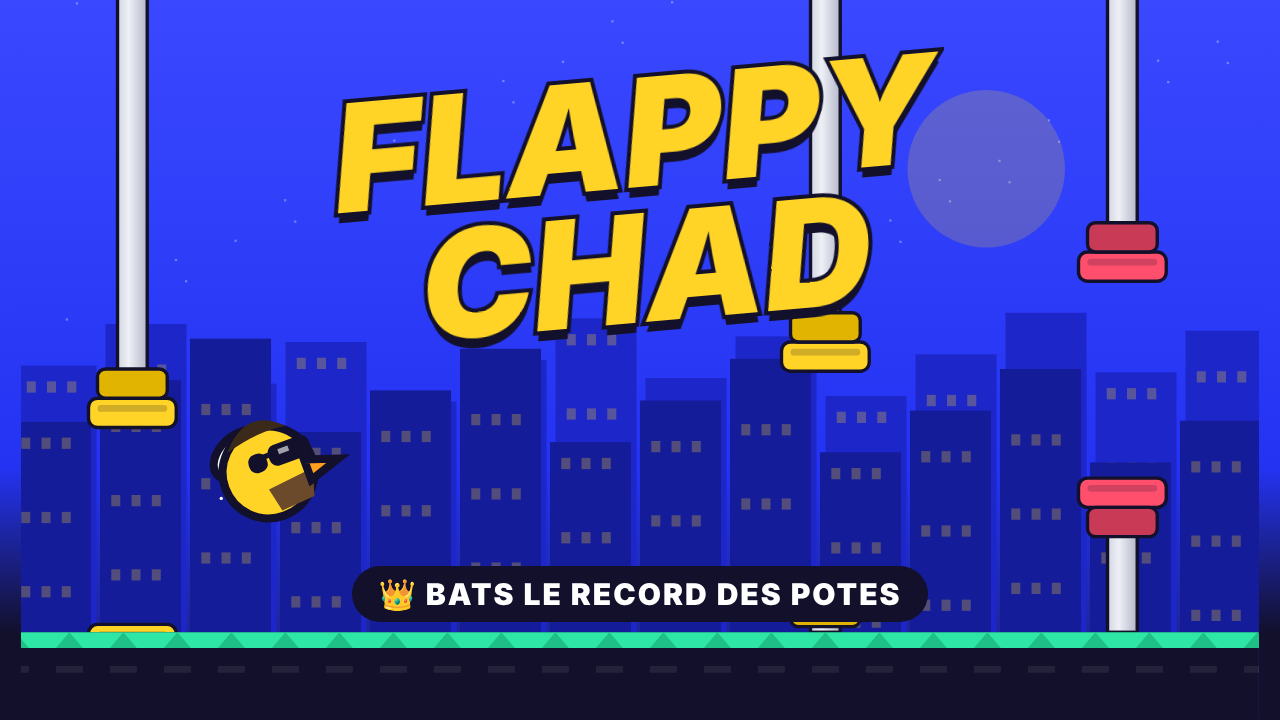
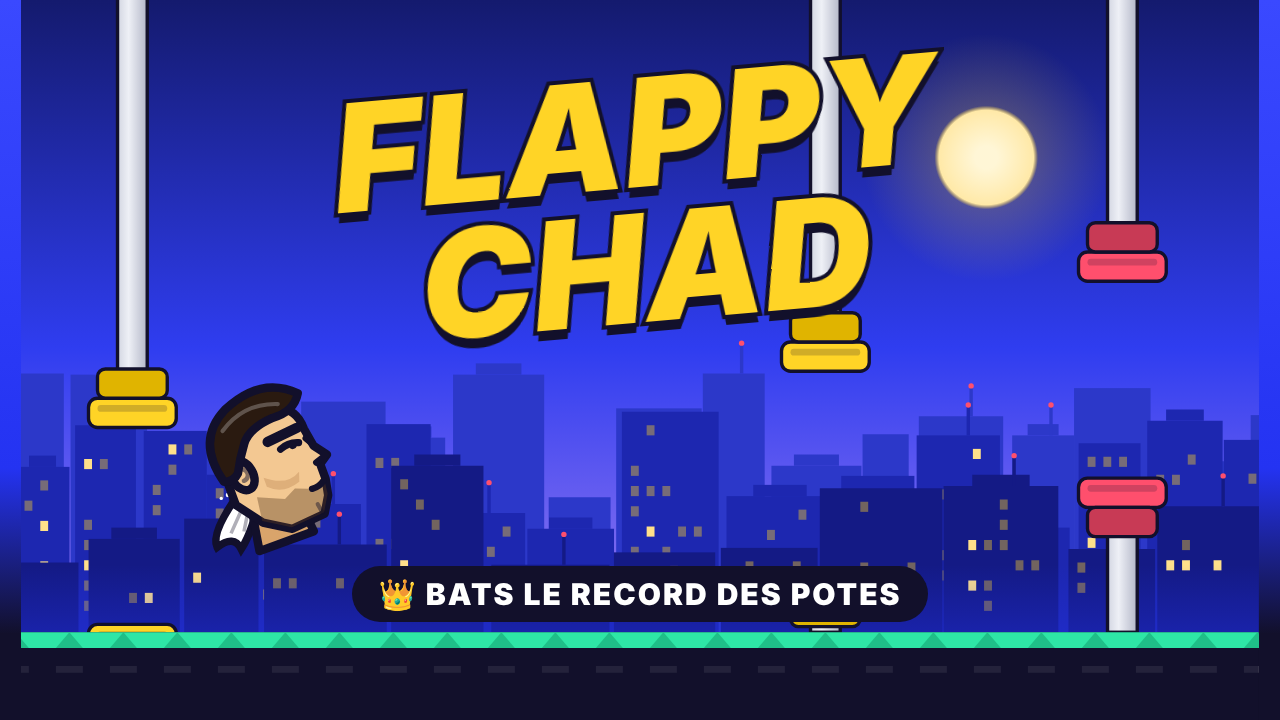
A

diff --git a/index.html b/index.html
@@ -229,17 +229,33 @@ function frame(now){
 
 /* ---------- Dessin ---------- */
 function rr(x,y,w,h,r){ctx.beginPath();ctx.roundRect?ctx.roundRect(x,y,w,h,r):ctx.rect(x,y,w,h)}
+/* Décor : immeubles calculés une fois (fenêtres fixes, pas de clignotement), étoiles qui scintillent doucement */
+function rng(seed){return()=>{seed=(seed*16807)%2147483647;return(seed-1)/2147483646}}
+function makeLayer(seed,count,minW,maxW,minH,maxH,winP){const r=rng(seed),b=[];let x=0;
+  for(let i=0;i<count;i++){const w=minW+r()*(maxW-minW)|0,h=minH+r()*(maxH-minH)|0,cols=Math.max(1,(w-12)/14|0),rows=Math.max(1,(h-16)/18|0),win=[];
+    for(let cy=0;cy<rows;cy++)for(let cx=0;cx<cols;cx++)if(r()<winP)win.push([8+cx*14,12+cy*18,r()<.25]);
+    b.push({x,w,h,win,ant:r()<.25,roof:r()<.3});x+=w+(r()*10|0)}return{b,total:x}}
+const LAYERS=[{...makeLayer(7,26,40,90,120,240,.0),sp:.12,col:'#2c38c9'},{...makeLayer(42,22,48,96,90,200,.28),sp:.3,col:'#1d27b0'},{...makeLayer(99,18,60,110,60,150,.18),sp:.55,col:'#141a85'}];
+const STARS=[...Array(60)].map((_,i)=>{const r=rng(1000+i);return{x:r(),y:r()*.55,s:r()<.2?2.2:1.4,p:r()*6.3}});
+const CLOUDS=[...Array(5)].map((_,i)=>{const r=rng(500+i);return{x:r()*1400,y:60+r()*200,w:90+r()*120}});
 function drawBg(){
-  const g=ctx.createLinearGradient(0,0,0,H);g.addColorStop(0,'#3a49ff');g.addColorStop(.65,'#2433f2');g.addColorStop(1,'#1b1f6b');ctx.fillStyle=g;ctx.fillRect(0,0,W,H);
-  // étoiles
-  ctx.fillStyle='#ffffff55';for(let i=0;i<40;i++){const x=((i*97+S.bgx*.2)%(W+20))-10,y=(i*53)%300;ctx.fillRect(W-x,y,2,2)}
-  // soleil-haltère
-  ctx.fillStyle='#ffd42633';ctx.beginPath();ctx.arc(W*.78,150,70,0,7);ctx.fill();
-  // immeubles (parallaxe)
-  const layers=[[.3,'#1d27c9',200,90],[.6,'#151c9a',150,120]];
-  for(const [sp,col,base,var_] of layers){ctx.fillStyle=col;const off=(S.bgx*sp)%80;
-    for(let x=-off-80,i=0;x<W+80;x+=80,i++){const k=Math.floor((S.bgx*sp)/80)+i,h2=base+((k*37)%var_);ctx.fillRect(x,GROUND-h2,72,h2);
-      ctx.fillStyle='#ffd42644';for(let wy=GROUND-h2+14;wy<GROUND-10;wy+=22)for(let wx=x+10;wx<x+64;wx+=18)if(((k*7+wy+wx)|0)%3===0)ctx.fillRect(wx,wy,8,10);ctx.fillStyle=col}}
+  const g=ctx.createLinearGradient(0,0,0,GROUND);g.addColorStop(0,'#141a6e');g.addColorStop(.55,'#2f3df0');g.addColorStop(.9,'#7f6cf0');g.addColorStop(1,'#ff9fc4');ctx.fillStyle=g;ctx.fillRect(0,0,W,GROUND);
+  // étoiles (scintillement lent, pas de clignotement brutal)
+  for(const st of STARS){const a=.35+.3*Math.sin(S.t/50+st.p);ctx.globalAlpha=a;ctx.fillStyle='#fff';const x=((st.x*W*1.3-S.bgx*.04)%(W*1.3)+W*1.3)%(W*1.3)-W*.15;ctx.beginPath();ctx.arc(x,st.y*GROUND,st.s/2+.4,0,7);ctx.fill()}
+  ctx.globalAlpha=1;
+  // lune
+  const mg=ctx.createRadialGradient(W*.78,140,10,W*.78,140,110);mg.addColorStop(0,'#fff6d6');mg.addColorStop(.32,'#ffe9a8');mg.addColorStop(.36,'#ffd42633');mg.addColorStop(1,'#ffd42600');ctx.fillStyle=mg;ctx.beginPath();ctx.arc(W*.78,140,110,0,7);ctx.fill();
+  // nuages
+  ctx.fillStyle='#ffffff18';for(const c of CLOUDS){const x=((c.x-S.bgx*.08)%(W+300)+W+300)%(W+300)-200;ctx.beginPath();ctx.ellipse(x,c.y,c.w/2,c.w/7,0,0,7);ctx.ellipse(x+c.w*.2,c.y-c.w*.08,c.w/3.5,c.w/8,0,0,7);ctx.fill()}
+  // immeubles en 3 plans
+  for(const L of LAYERS){const off=(S.bgx*L.sp)%L.total;
+    for(const rep of [0,1,2]){const base=rep*L.total-off;if(base>W)break;
+      for(const b of L.b){const x=base+b.x;if(x+b.w<0||x>W)continue;const top=GROUND-b.h;
+        ctx.fillStyle=L.col;ctx.fillRect(x,top,b.w,b.h);
+        if(b.roof){ctx.fillRect(x+b.w*.25,top-10,b.w*.5,10)}if(b.ant){ctx.fillRect(x+b.w*.6,top-26,3,26);ctx.fillStyle='#ff4f6d';ctx.beginPath();ctx.arc(x+b.w*.6+1.5,top-27,2.4,0,7);ctx.fill()}
+        for(const w of b.win){ctx.fillStyle=w[2]?'#ffe08a':'#ffd42666';ctx.fillRect(x+w[0],top+w[1],7,9)}}}}
+  // brume au pied des immeubles
+  const fog=ctx.createLinearGradient(0,GROUND-60,0,GROUND);fog.addColorStop(0,'#2433f200');fog.addColorStop(1,'#2433f255');ctx.fillStyle=fog;ctx.fillRect(0,GROUND-60,W,60);
 }
 function drawPipe(p){
   const x=p.x,w=p.w;
@@ -252,22 +268,45 @@ function drawPipe(p){
   bar(-10,p.top-50);plate(p.top,true);
   bar(p.top+p.g+50,GROUND);plate(p.top+p.g,false);
 }
+/* Tête de Chad (profil 3/4 tourné vers la droite), dessinée en vectoriel. r = demi-hauteur de la tête. */
+function chadHead(ctx,r,o){o=o||{};const k=r/20;ctx.save();ctx.scale(k,k);ctx.lineJoin='round';ctx.lineCap='round';
+  const ink='#12102b',skin=o.skin||'#f3c892',shade=o.shade||'#d9a46b',hair='#2a1a10',beard='rgba(90,58,32,.38)';
+  ctx.lineWidth=2.6;ctx.strokeStyle=ink;
+  // cou
+  ctx.fillStyle=shade;ctx.beginPath();ctx.moveTo(-9,10);ctx.lineTo(-11,22);ctx.lineTo(7,22);ctx.lineTo(6,12);ctx.closePath();ctx.fill();ctx.stroke();
+  // visage + mâchoire carrée
+  ctx.fillStyle=skin;ctx.beginPath();
+  ctx.moveTo(-13,-6);ctx.quadraticCurveTo(-13,-17,-2,-19);ctx.lineTo(9,-18);ctx.quadraticCurveTo(15,-16,15,-9);
+  ctx.lineTo(16,-3);ctx.lineTo(19,1);ctx.lineTo(16,3);ctx.lineTo(16,8);ctx.lineTo(15,13);ctx.lineTo(12,18);ctx.lineTo(1,19);ctx.lineTo(-7,14);ctx.lineTo(-13,6);ctx.closePath();ctx.fill();ctx.stroke();
+  // barbe de 3 jours
+  ctx.fillStyle=beard;ctx.beginPath();ctx.moveTo(-6,6);ctx.lineTo(-7,13.5);ctx.lineTo(1,18.5);ctx.lineTo(12,17.5);ctx.lineTo(15,12.5);ctx.lineTo(15.6,7.5);ctx.lineTo(10,9);ctx.lineTo(6,7.5);ctx.lineTo(2,9.5);ctx.closePath();ctx.fill();
+  // ombre de pommette
+  ctx.fillStyle='rgba(160,100,50,.25)';ctx.beginPath();ctx.moveTo(-2,1);ctx.quadraticCurveTo(4,6,9,3);ctx.lineTo(8,6);ctx.quadraticCurveTo(2,8,-2,4);ctx.fill();
+  // oreille
+  ctx.fillStyle=skin;ctx.beginPath();ctx.ellipse(-8,-2,3.4,5,-.2,0,7);ctx.fill();ctx.stroke();ctx.strokeStyle='rgba(18,16,43,.5)';ctx.lineWidth=1.4;ctx.beginPath();ctx.arc(-8,-2,1.8,-1,1.6);ctx.stroke();ctx.strokeStyle=ink;ctx.lineWidth=2.6;
+  // cheveux plaqués en arrière
+  ctx.fillStyle=hair;ctx.beginPath();ctx.moveTo(-14,-2);ctx.quadraticCurveTo(-18,-17,-6,-23);ctx.quadraticCurveTo(8,-29,17,-20);ctx.quadraticCurveTo(14,-15,7,-15.5);ctx.quadraticCurveTo(-1,-15,-4,-11);ctx.quadraticCurveTo(-7,-7,-9,-3);ctx.quadraticCurveTo(-11,-1,-14,-2);ctx.closePath();ctx.fill();ctx.stroke();
+  ctx.strokeStyle='rgba(255,255,255,.25)';ctx.lineWidth=1.3;ctx.beginPath();ctx.moveTo(-9,-17);ctx.quadraticCurveTo(0,-23,10,-19);ctx.stroke();ctx.strokeStyle=ink;
+  // sourcil épais + œil plissé
+  ctx.lineWidth=3.2;ctx.beginPath();ctx.moveTo(3,-9);ctx.lineTo(13,-10);ctx.stroke();
+  if(o.shades){ctx.fillStyle=ink;ctx.beginPath();ctx.moveTo(2,-7);ctx.lineTo(16,-8);ctx.lineTo(15,-3);ctx.lineTo(4,-2.5);ctx.closePath();ctx.fill();ctx.fillStyle='rgba(255,255,255,.55)';ctx.fillRect(9,-6.5,4,1.4)}
+  else{ctx.lineWidth=2.2;ctx.beginPath();ctx.moveTo(6,-5.5);ctx.quadraticCurveTo(9,-6.8,12,-5.5);ctx.stroke();ctx.fillStyle=ink;ctx.beginPath();ctx.arc(10,-5.4,1.2,0,7);ctx.fill()}
+  // nez droit
+  ctx.lineWidth=2;ctx.beginPath();ctx.moveTo(14.5,-6);ctx.lineTo(18.6,1);ctx.lineTo(15,2.2);ctx.stroke();
+  // sourire en coin
+  ctx.beginPath();ctx.moveTo(11,9.4);ctx.quadraticCurveTo(13.5,9.6,15.2,8.2);ctx.stroke();
+  // menton creusé
+  ctx.strokeStyle='rgba(18,16,43,.45)';ctx.lineWidth=1.3;ctx.beginPath();ctx.moveTo(11,14.5);ctx.lineTo(11.5,17.5);ctx.stroke();
+  ctx.restore()}
+
 function drawBird(){
   const b=bird;ctx.save();ctx.translate(b.x,b.y);ctx.rotate(b.rot);
-  // aile
-  const wy=b.wing>.5||((S.mode==='menu'||S.mode==='ready')&&b.wing)?-10:6;
-  ctx.fillStyle='#fff';ctx.strokeStyle='#12102b';ctx.lineWidth=3;ctx.beginPath();ctx.ellipse(-8,wy,11,7,-.4,0,7);ctx.fill();ctx.stroke();
-  // corps
-  ctx.fillStyle='#ffd426';ctx.beginPath();ctx.arc(0,0,17,0,7);ctx.fill();ctx.stroke();
-  // mâchoire carrée + barbe
-  ctx.fillStyle='#6b4a2b';ctx.beginPath();ctx.moveTo(-2,6);ctx.lineTo(16,4);ctx.lineTo(13,14);ctx.lineTo(0,15);ctx.closePath();ctx.fill();
-  // bec
-  ctx.fillStyle='#ff9f1c';ctx.beginPath();ctx.moveTo(14,0);ctx.lineTo(26,4);ctx.lineTo(14,8);ctx.closePath();ctx.fill();ctx.stroke();
-  // lunettes de soleil
-  ctx.fillStyle='#12102b';rr(2,-9,16,8,3);ctx.fill();rr(-6,-8,7,7,3);ctx.fill();ctx.fillRect(-1,-7,4,2);
-  ctx.fillStyle='#ffffff99';ctx.fillRect(6,-7,4,2);
-  // mèche
-  ctx.fillStyle='#3b2a1a';ctx.beginPath();ctx.moveTo(-12,-12);ctx.quadraticCurveTo(0,-26,12,-14);ctx.quadraticCurveTo(2,-16,-12,-12);ctx.fill();
+  // ailes (derrière la tête)
+  const up=b.wing>.5||((S.mode==='menu'||S.mode==='ready')&&b.wing);
+  ctx.fillStyle='#fff';ctx.strokeStyle='#12102b';ctx.lineWidth=2.6;
+  ctx.save();ctx.translate(-10,2);ctx.rotate(up?-.9:.35);ctx.beginPath();ctx.moveTo(0,0);ctx.quadraticCurveTo(-18,-6,-22,-2);ctx.quadraticCurveTo(-16,2,-20,6);ctx.quadraticCurveTo(-12,8,0,6);ctx.closePath();ctx.fill();ctx.stroke();
+  ctx.strokeStyle='#12102b55';ctx.lineWidth=1.2;ctx.beginPath();ctx.moveTo(-6,2);ctx.lineTo(-16,1);ctx.moveTo(-6,4);ctx.lineTo(-14,5);ctx.stroke();ctx.restore();
+  chadHead(ctx,22,{shades:S.score>=25});
   ctx.restore();
 }
 function drawGround(){
